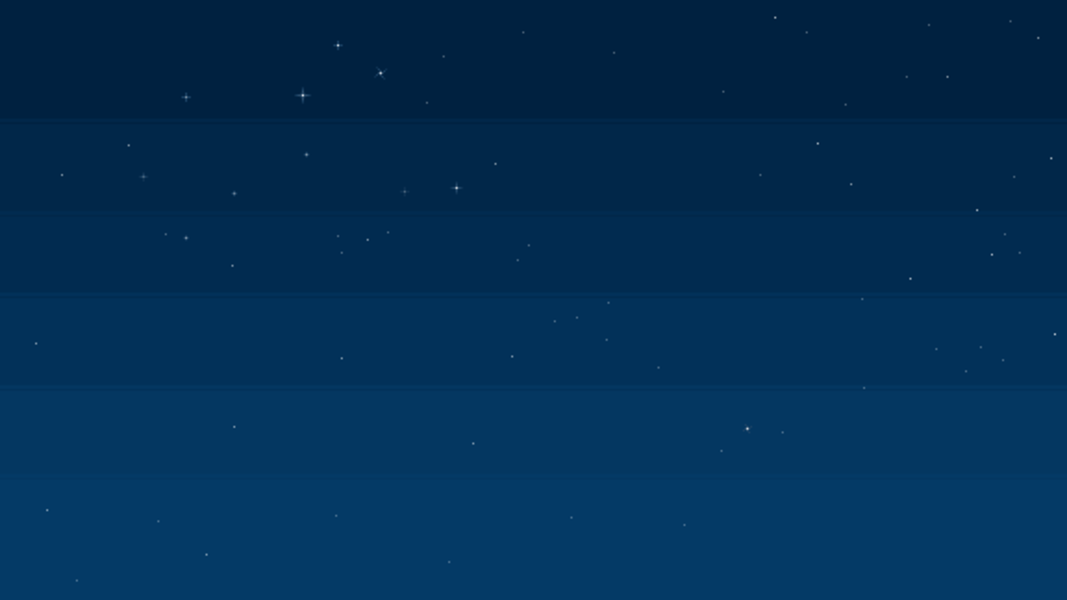
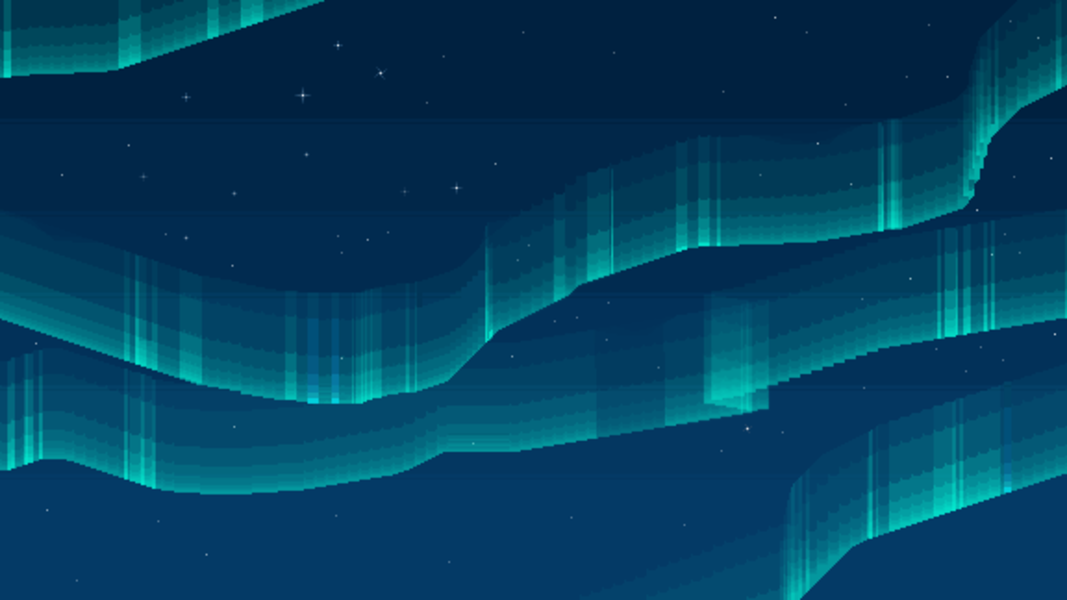
arrumando parralax que tava piscando

Changed region(s): [[0.0, 0.0, 1.0, 0.84], [0.6804, 0.66, 1.0, 1.0], [0.0, 0.0, 0.3093, 0.15]]

diff --git a/code/level.py b/code/level.py
@@ -15,8 +15,18 @@ class Level:
         self.entity_list.extend(EntityFactory.get_entity('Level1bg'))
 
     def run(self):
-        while True:
+        clock = pygame.time.Clock()
+        running = True
+        while running:
+            #arrumando efeito parallax
+            for event in pygame.event.get():
+                if event.type == pygame.QUIT:
+                    running = False
+            for entity in self.entity_list:
+                entity.move()
+            self.window.fill((0, 0, 0))
             for entity in self.entity_list:
                 self.window.blit(source= entity.surf, dest= entity.rect)
-                pygame.display.flip()
-            pass
+            pygame.display.flip()
+            clock.tick(60)
+

diff --git a/code/EntityFactory.py b/code/EntityFactory.py
@@ -1,6 +1,7 @@
 #!/usr/bin/python
 # -*- coding: utf-8 -*-
 from code.background import Background
+from code.const import WIN_WIDTH
 
 
 class EntityFactory:
@@ -12,5 +13,6 @@ class EntityFactory:
                 list_bg = []
                 for i in range(3):
                     list_bg.append(Background(f'Level1bg{i}', (0, 0)))
+                    list_bg.append(Background(f'Level1bg{i}', (WIN_WIDTH, 0)))
                 return list_bg
-        return None
+

diff --git a/code/background.py b/code/background.py
@@ -2,6 +2,7 @@
 # -*- coding: utf-8 -*-
 
 from code.Entity import Entity
+from code.const import WIN_WIDTH, ENTITY_SPEED
 
 
 class Background(Entity):
@@ -9,4 +10,7 @@ class Background(Entity):
         super().__init__(name, position)
 
     def move(self, ):
-        pass
+        self.rect.centerx -= ENTITY_SPEED[self.name]
+        if self.rect.right <= 0:
+            self.rect.left = WIN_WIDTH
+

diff --git a/code/const.py b/code/const.py
@@ -1,6 +1,7 @@
+#tela
 WIN_WIDTH = 1067
 WIN_HEIGHT = 600
-
+#cor
 COLOR_F = (55, 145, 89)
 COLOR_B = (255, 255, 255)
 COLOR_P = (0, 0, 0)
@@ -9,3 +10,10 @@ COLOR_A = (255, 230, 62)
 MENU_OPTION = ('STAR GAME',
                'SCORE',
                'EXIT')
+
+#fundo parallax
+ENTITY_SPEED = {
+    'Level1bg0': 1,
+    'Level1bg1': 2,
+    'Level1bg2': 3,
+}
